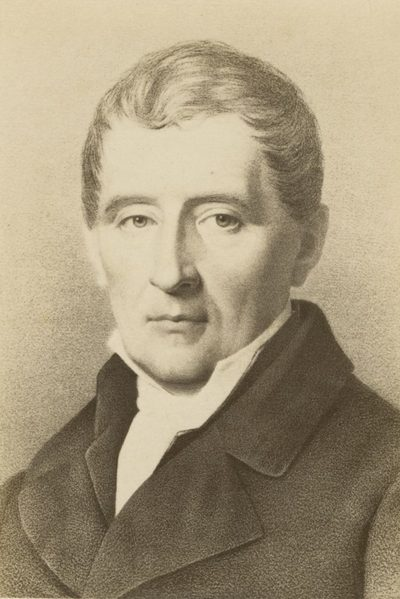
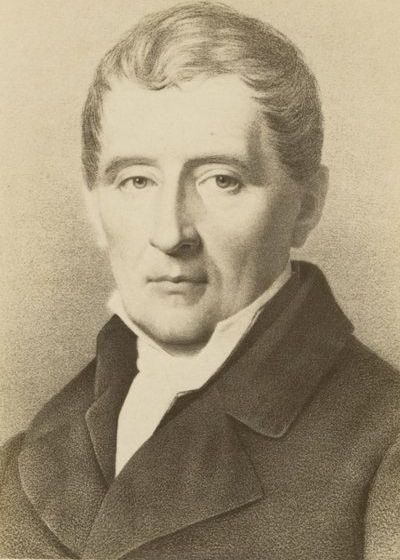
content: trim plain margins from public-domain portrait sources (#122)
#111's investigation (via #123) found that a display-side fix couldn't
explain why some composers' faces render 2-3x smaller than others in
the grid — 18 source files (Purcell, Couperin, Albinoni among them)
have a large plain margin baked into the JPEG itself. CONTRIBUTING.md's
scale-only rule exists to stop a CC BY-SA portrait from becoming an
adaptation; checking all 18 found every one Public Domain, so that
concern doesn't actually apply to any of them.

Rather than search Commons for replacement images (real risk of a
wrong-person match, no guarantee a better file exists), this trims the
existing files with `sharp.trim()` — a mature, already-available
primitive — scoped to files where `requiresAttribution()` is false
(licenses.ts), so a CC BY/BY-SA portrait is never touched regardless of
what it looks like. CONTRIBUTING.md now states this as the one explicit
exception to scale-only; the display layer (composer-portrait.tsx,
composer-thumb.tsx) is untouched and still never crops at render time.

scripts/trim-portrait-margins.ts:
- Detects candidates by sampling the outermost 2px of each edge
  (greyscale mean > 150). Tuned against all 18 named composers
  (183.9-255.0) versus a full-bleed dark-portrait control, Corelli
  (57.2) — kept shallow deliberately: an earlier version sampled a
  ring 6% inward, which for an oval vignette (Purcell, Couperin)
  already clips into darker portrait content and pulled the average
[…]

diff --git a/scripts/trim-portrait-margins.ts b/scripts/trim-portrait-margins.ts
@@ -1,0 +1,160 @@
+/**
+ * Trims a uniform plain margin baked into the *source* JPEG of a
+ * public-domain portrait — issue #122.
+ *
+ * #111 found that a display-side fix (`object-contain`, #123) couldn't
+ * explain why some composers' faces look 2-3x smaller than others in the
+ * grid: a handful of source files have a large plain background baked into
+ * the pixels themselves (e.g. Purcell, Couperin, Albinoni — measured border
+ * luminance 184-254 out of 255). `CONTRIBUTING.md`'s scale-only rule exists
+ * to keep a CC BY-SA portrait from becoming an adaptation; it does not apply
+ * here; per `requiresAttribution()` (`src/lib/licenses.ts`), a
+ * public-domain file carries no share-alike term to violate. This script is
+ * the one, audited exception CONTRIBUTING.md's 肖像画 section carves out for
+ * that case, and it applies ONLY to `!requiresAttribution(license)` files —
+ * CC BY / CC BY-SA portraits are always skipped.
+ *
+ * Two-phase, per file:
+ *   1. Detect — sample the outermost 2px of each edge (greyscale) and
+ *      compare the mean brightness to `BORDER_BRIGHTNESS_THRESHOLD`. This is
+ *      the same heuristic used to find the 18 composers issue #122 lists; a
+ *      full-bleed dark portrait (the Corelli control, 57.2) sits over 100
+ *      points below it.
+ *   2. Attempt — run `sharp.trim()` and classify the result via
+ *      `classifyTrimResult` (`src/lib/portrait-trim.ts`): too small a change
+ *      means there was no real margin (skip); too large a change means the
+ *      algorithm likely ate into the actual portrait (flag for manual
+ *      review, do not touch the file); anything in between is adopted.
+ *
+ * Defaults to a dry run — prints what it would do without writing anything.
+ * Pass `--write` to actually overwrite `public/portraits/<id>.jpg`.
+ * `npm run build:portrait-thumbs` must be re-run afterwards to regenerate
+ * the 128px card thumbnails from the trimmed originals — this script does
+ * not touch `public/portraits/thumb/` or `data/portraits.json` (the
+ * `commonsFile`/`author`/`license`/`sourceUrl` credit fields stay accurate;
+ * a public-domain file requires no attribution in the first place).
+ *
+ * Not idempotent against `npm run seed:portraits`: a full re-seed rebuilds
+ * every portrait from Wikidata/Commons from scratch and will silently
+ * restore the original (margin-included) image for any id this script
+ * trimmed. See CONTRIBUTING.md.
+ *
+ *     npx tsx scripts/trim-portrait-margins.ts           # dry run
+ *     npx tsx scripts/trim-portrait-margins.ts --write   # apply
+ */
+import path from "node:path";
+
+import sharp from "sharp";
+
+import portraitCredits from "../data/portraits.json";
+import type { PortraitCredit } from "../src/lib/licenses";
+import { requiresAttribution } from "../src/lib/licenses";
+import {
+  BORDER_BRIGHTNESS_THRESHOLD,
+  classifyTrimResult,
+  isMarginCandidate,
+} from "../src/lib/portrait-trim";
+
+const PUBLIC_DIR = path.join(process.cwd(), "public");
+
+/**
+ * Mean greyscale luminance (0-255) of the outermost 2px on each edge.
+ * Deliberately shallow — see the doc comment on `BORDER_BRIGHTNESS_THRESHOLD`
+ * for why sampling further inward misses oval-vignette cases.
+ */
+async function measureBorderBrightness(file: string): Promise<number> {
+  const { data, info } = await sharp(file)
+    .greyscale()
+    .raw()
+    .toBuffer({ resolveWithObject: true });
+  const { width: iw, height: ih } = info;
+  const at = (x: number, y: number) => data[y * iw + x];
+
+  let sum = 0;
+  let count = 0;
+  for (let x = 0; x < iw; x += 1) {
+    for (const y of [0, 1, ih - 2, ih - 1]) {
+      if (y < 0 || y >= ih) continue;
+      sum += at(x, y);
+      count++;
+    }
+  }
+  for (let y = 0; y < ih; y += 1) {
+    for (const x of [0, 1, iw - 2, iw - 1]) {
+      if (x < 0 || x >= iw) continue;
+      sum += at(x, y);
+      count++;
+    }
+  }
+  return sum / count;
+}
+
+const TRIM_THRESHOLD = 15;
+
+async function main() {
+  const write = process.argv.slice(2).includes("--write");
+  const credits = (portraitCredits as PortraitCredit[]).filter(
+    (credit) => !requiresAttribution(credit.license),
+  );
+
+  console.log(
+    `Scanning ${credits.length} public-domain-equivalent portrait(s) ` +
+      `(border brightness > ${BORDER_BRIGHTNESS_THRESHOLD} is a candidate)` +
+      (write ? " — WRITE MODE" : " — dry run, pass --write to apply") +
+      "\n",
+  );
+
+  let adopted = 0;
+  let needsReview = 0;
+
+  for (const credit of credits) {
+    const file = path.join(PUBLIC_DIR, credit.file);
+    const brightness = await measureBorderBrightness(file);
+    if (!isMarginCandidate(brightness)) continue;
+
+    const original = await sharp(file).metadata();
+    const trimmed = sharp(file).trim({ threshold: TRIM_THRESHOLD });
+    const trimmedBuffer = await trimmed.toBuffer();
+    const trimmedMeta = await sharp(trimmedBuffer).metadata();
+
+    const verdict = classifyTrimResult({
+      originalWidth: original.width!,
+      originalHeight: original.height!,
+      trimmedWidth: trimmedMeta.width!,
+      trimmedHeight: trimmedMeta.height!,
+    });
+
+    const label = `${credit.composerId} (border ${brightness.toFixed(1)}): ` +
+      `${original.width}x${original.height} -> ${trimmedMeta.width}x${trimmedMeta.height}`;
+
+    if (verdict === "skip") {
+      console.log(`${label}  SKIP (no real margin found)`);
+      continue;
+    }
+    if (verdict === "needs-review") {
+      needsReview++;
+      console.log(`${label}  NEEDS REVIEW (trim looked too aggressive, left untouched)`);
+      continue;
+    }
+
+    adopted++;
+    console.log(`${label}  ${write ? "TRIMMED" : "would trim"}`);
+    if (write) {
+      await sharp(trimmedBuffer)
+        .jpeg({ quality: 82, progressive: true })
+        .toFile(file);
+    }
+  }
+
+  console.log(
+    `\n${adopted} adopted, ${needsReview} flagged for manual review.` +
+      (write
+        ? " Run `npm run build:portrait-thumbs` next to regenerate card thumbnails."
+        : " Re-run with --write to apply."),
+  );
+}
+
+main().catch((error) => {
+  console.error(error);
+  process.exit(1);
+});

diff --git a/src/lib/portrait-trim.ts b/src/lib/portrait-trim.ts
@@ -1,0 +1,87 @@
+/**
+ * Pure decision logic for `scripts/trim-portrait-margins.ts` (issue #122).
+ *
+ * Kept separate from the script (which does the actual image I/O via
+ * `sharp`) so the thresholds are unit-testable without touching the
+ * filesystem — same split as `portrait-thumb.ts` holding the pure mapping
+ * and `build-portrait-thumbs.ts` doing the I/O. This module has no `sharp`
+ * import and no side effects, so importing it anywhere (including
+ * client-bundled code, though nothing does) is always safe.
+ *
+ * The whole mechanism only ever applies to public-domain-equivalent files —
+ * see `requiresAttribution()` in `licenses.ts` and `CONTRIBUTING.md`'s
+ * 肖像画 section — because those carry no share-alike term to violate by
+ * trimming a plain margin.
+ */
+
+/**
+ * Mean greyscale luminance (0-255) of a portrait's outermost edge pixels,
+ * above which the file is a margin-trim candidate. Chosen from a
+ * measurement of the 18 composers issue #122 lists (183.9-255.0) against a
+ * known-fine control — a full-bleed dark oil painting at 57.2 — leaving
+ * well over a 100-point margin on either side of the threshold.
+ *
+ * Deliberately samples only the outermost 2px, not a line further inward:
+ * an earlier version sampled a ring 6% in from the edge, which for an oval
+ * vignette (Purcell, Couperin) already clips into the portrait's darker
+ * content in places and pulls the average down enough to fall below
+ * threshold — silently skipping exactly the composers issue #111 named.
+ * The outermost few pixels are reliably background regardless of the
+ * vignette's shape.
+ */
+export const BORDER_BRIGHTNESS_THRESHOLD = 150;
+
+export function isMarginCandidate(borderBrightness: number): boolean {
+  return borderBrightness > BORDER_BRIGHTNESS_THRESHOLD;
+}
+
+export type TrimVerdict = "skip" | "needs-review" | "adopt";
+
+/**
+ * Below this, a trim didn't remove enough to have found a real margin —
+ * `sharp.trim()` ran but the composition doesn't actually have one, so
+ * keep the file untouched rather than re-encoding for no visible change.
+ */
+const MIN_REDUCTION_RATIO = 0.03;
+
+/**
+ * Below this fraction of the original size (on either axis), or below this
+ * absolute pixel floor, a trim is treated as having gone too far — most
+ * likely the border wasn't as uniform as it looked and `sharp.trim()`
+ * ate into the actual portrait. Flagged for manual review instead of
+ * auto-adopted.
+ */
+const MAX_REDUCTION_RATIO = 0.6; // i.e. trimmed must be >= 40% of original
+const MIN_ABSOLUTE_PX = 80;
+
+/**
+ * Decides what to do with a candidate's `sharp.trim()` result, given the
+ * dimensions before and after.
+ */
+export function classifyTrimResult({
+  originalWidth,
+  originalHeight,
+  trimmedWidth,
+  trimmedHeight,
+}: {
+  originalWidth: number;
+  originalHeight: number;
+  trimmedWidth: number;
+  trimmedHeight: number;
+}): TrimVerdict {
+  const widthReduction = 1 - trimmedWidth / originalWidth;
+  const heightReduction = 1 - trimmedHeight / originalHeight;
+
+  if (widthReduction < MIN_REDUCTION_RATIO && heightReduction < MIN_REDUCTION_RATIO) {
+    return "skip";
+  }
+
+  const tooSmallAbsolute = trimmedWidth < MIN_ABSOLUTE_PX || trimmedHeight < MIN_ABSOLUTE_PX;
+  const tooSmallRelative =
+    widthReduction > MAX_REDUCTION_RATIO || heightReduction > MAX_REDUCTION_RATIO;
+  if (tooSmallAbsolute || tooSmallRelative) {
+    return "needs-review";
+  }
+
+  return "adopt";
+}

diff --git a/src/lib/portrait-trim.test.ts b/src/lib/portrait-trim.test.ts
@@ -1,0 +1,65 @@
+import { describe, expect, it } from "vitest";
+
+import {
+  BORDER_BRIGHTNESS_THRESHOLD,
+  classifyTrimResult,
+  isMarginCandidate,
+} from "./portrait-trim";
+
+describe("isMarginCandidate", () => {
+  it("flags the measured range of issue #122's 18 composers", () => {
+    for (const brightness of [183.9, 194.6, 207.4, 236.6, 254.8, 255.0]) {
+      expect(isMarginCandidate(brightness), String(brightness)).toBe(true);
+    }
+  });
+
+  it("does not flag a full-bleed dark portrait (the Corelli control, 57.2)", () => {
+    expect(isMarginCandidate(57.2)).toBe(false);
+  });
+
+  it("is exclusive of the threshold itself", () => {
+    expect(isMarginCandidate(BORDER_BRIGHTNESS_THRESHOLD)).toBe(false);
+    expect(isMarginCandidate(BORDER_BRIGHTNESS_THRESHOLD + 0.1)).toBe(true);
+  });
+});
+
+describe("classifyTrimResult", () => {
+  const square = (originalWidth: number, trimmedWidth: number) => ({
+    originalWidth,
+    originalHeight: originalWidth,
+    trimmedWidth,
+    trimmedHeight: trimmedWidth,
+  });
+
+  it("skips a negligible reduction — no real margin found", () => {
+    expect(classifyTrimResult(square(400, 396))).toBe("skip"); // 1%
+    expect(classifyTrimResult(square(400, 389))).toBe("skip"); // 2.75%
+  });
+
+  it("adopts a moderate, plausible margin trim", () => {
+    expect(classifyTrimResult(square(400, 320))).toBe("adopt"); // 20%
+    expect(classifyTrimResult(square(400, 250))).toBe("adopt"); // 37.5%
+  });
+
+  it("flags an overly aggressive trim for manual review", () => {
+    expect(classifyTrimResult(square(400, 100))).toBe("needs-review"); // 75%
+  });
+
+  it("flags a trim that drops below the absolute pixel floor", () => {
+    // Only 12% reduction (within the "adopt" ratio band), but the low-res
+    // Des Prez source (199x200) means even a modest trim can cross 80px.
+    expect(classifyTrimResult(square(199, 70))).toBe("needs-review");
+  });
+
+  it("judges each axis independently", () => {
+    // Width barely moves, height trims plausibly — a portrait with margin
+    // on only the top/bottom, e.g. a tall frame around a square face.
+    const result = classifyTrimResult({
+      originalWidth: 400,
+      originalHeight: 500,
+      trimmedWidth: 396,
+      trimmedHeight: 380,
+    });
+    expect(result).toBe("adopt");
+  });
+});

diff --git a/src/components/composer-portrait.tsx b/src/components/composer-portrait.tsx
@@ -8,9 +8,13 @@ import type { PortraitCredit } from "@/lib/licenses";
  * Portrait plus its attribution.
  *
  * The credit is always shown, not just for CC BY/BY-SA files: it is required
- * for those, and good practice for the public-domain ones. The image is only
- * ever scaled, never cropped or recoloured, so a share-alike portrait does
- * not become an adaptation.
+ * for those, and good practice for the public-domain ones. This component
+ * only ever scales the image, never crops or recolours it, so a share-alike
+ * portrait does not become an adaptation — unconditionally, regardless of
+ * licence. (A separate, offline, PD-only exception exists for the *source*
+ * file: `scripts/trim-portrait-margins.ts` may trim a uniform plain margin
+ * baked into a public-domain portrait, see `CONTRIBUTING.md`'s 肖像画
+ * section and issue #122. That never touches this component's behaviour.)
  */
 export function ComposerPortrait({
   locale,

diff --git a/src/components/composer-thumb.tsx b/src/components/composer-thumb.tsx
@@ -24,6 +24,12 @@ import { portraitThumb } from "@/lib/portrait-thumb";
  *
  * The dark `bg-paper` well matters beyond taste: many portraits are
  * engravings on white, which glare against the olive page (issue #111).
+ *
+ * This component never crops, regardless of licence — that stays true even
+ * though a small, PD-only exception exists for the *source* file offline
+ * (`scripts/trim-portrait-margins.ts`, issue #122): it may trim a uniform
+ * plain margin baked into a public-domain portrait before it ever reaches
+ * `public/portraits/`. Nothing here changes because of that.
  */
 export function ComposerThumb({
   portrait,

diff --git a/CONTRIBUTING.md b/CONTRIBUTING.md
@@ -379,7 +379,9 @@ npm test                # src/lib/media.test.ts が data/media.json 単体と、
 
 `scripts/seed/fetch-portraits.ts` が Wikidata の P18 から取得し、Wikimedia Commons が報告するライセンスが許可リスト（`src/lib/licenses.ts`）に一致する場合のみ採用します。**許可リストを緩めないでください。** Open Opus の肖像画は1点ごとの出典が不明で、収録作曲家の3分の1は写真の著作権が存続している可能性が高いため使いません。
 
-CC BY-SA の画像を含むので、**拡大・縮小以外の加工をしないでください**。トリミングや色調変更は二次的著作物にあたり、シェアアライク条項が発生します。表示側も同様で、`object-cover` で正方形に切り抜くといった実装は不可です。
+CC BY-SA の画像を含むので、**拡大・縮小以外の加工をしないでください**。トリミングや色調変更は二次的著作物にあたり、シェアアライク条項が発生します。**表示側はライセンスを問わずこの原則に無条件で従います** — `composer-portrait.tsx`・`composer-thumb.tsx` は常に `object-contain` で全体を表示し、`object-cover` で正方形に切り抜くといった実装は不可です。
+
+**ソースアセット側の唯一の例外**: `requiresAttribution()`（`src/lib/licenses.ts`）が `false` を返すライセンス（Public domain / PD / CC0 / No restrictions — シェアアライク条項もクレジット義務も無い）に限り、境界に焼き込まれた均一な余白を `scripts/trim-portrait-margins.ts` で機械的にトリミングしてよい（#122）。これは表示側のクロップとは別レイヤーの、一度限りの監査済み前処理です。CC BY / CC BY-SA のファイルは対象外のままで、恒常的な自由裁量のクロップを許可するものではありません。**トリミング後のファイルは `npm run seed:portraits` を再実行すると無条件で上書きされ、元の（余白付き）画像に戻ります** — 再実行する際は事前にトリミング済みの id を控えておいてください。
 
 `npm run seed:portraits` を回したら、続けて **`npm run build:portrait-thumbs`** を実行してください。楽曲カードは 400px の原本ではなく `public/portraits/thumb/` の 128px 版を読むためです（静的エクスポートには画像最適化が無く、実行時に原本へフォールバックすることもできません）。こちらも縮小のみで、切り抜きは行いません。
 
